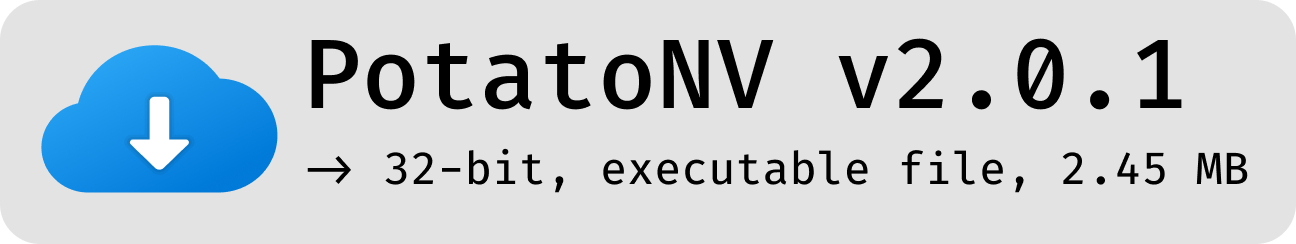
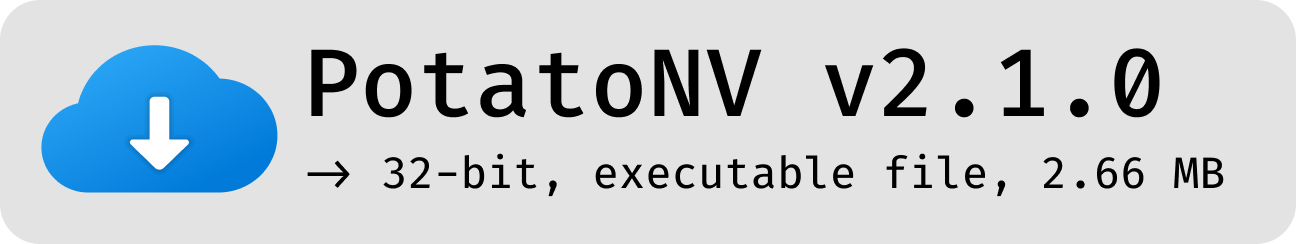
Update README

Changed region(s): [[0.216, 0.1434, 0.9259, 0.4877], [0.216, 0.6025, 0.9877, 0.8033], [0.216, 0.4303, 0.2469, 0.4877]]

diff --git a/PotatoNV-next/Core.cs b/PotatoNV-next/Core.cs
@@ -91,8 +91,7 @@ namespace PotatoNV_next
 
             if (!state)
             {
-                Log.Error("FBLOCK is locked!");
-                // throw new Exception("FBLOCK is locked!");
+                Log.Error("*** FBLOCK is locked! ***");
             }
         }
 
@@ -136,6 +135,7 @@ namespace PotatoNV_next
                     return;
                 }
             }
+
             Log.Error("Failed to set FBLOCK state!");
         }
 

diff --git a/README.md b/README.md
@@ -16,8 +16,8 @@ Unlock bootloader of Huawei devices on Kirin SoC.
 
 Click below to download the latest version:
 
-<a href="https://github.com/mashed-potatoes/PotatoNV/releases/download/v2.0.1-2/PotatoNV-next-v2.0.1-2-x86.exe">
-  <img src="https://raw.githubusercontent.com/mashed-potatoes/PotatoNV/master/assets/cool-button.png" width="520" height="auto">
+<a href="https://github.com/mashed-potatoes/PotatoNV/releases/download/v2.1.0/PotatoNV-next-v2.1.0-x86.exe">
+  <img src="https://raw.githubusercontent.com/mashed-potatoes/PotatoNV/master/assets/cool-button.png?r=2100" width="520" height="auto">
 </a>
 
 ## Tested devices
@@ -39,8 +39,9 @@ Huawei Nova 2 | `PIC` | Kirin 65x (A)
 Huawei Nova 2i / Mate 10 Lite | `RNE` | Kirin 65x (B)
 Huawei Nova 2s | `HWI` | Kirin 960
 Huawei P Smart 2018 | `FIG` | Kirin 65x (B)
+Huawei P8 Lite **(!)** | `ALE` | Kirin 620
 Huawei P10 | `VTR` | Kirin 960
-Huawei P20 Lite / Nova 3e | `ANE` | Kirin 65x (A)
+Huawei P20 Lite / Nova 3e **(!)** | `ANE` | Kirin 65x (A)
 Huawei P8 Lite (2017) | `PRA` | Kirin 65x (A)
 Huawei P9 Lite | `VNS` | Kirin 65x (A)
 Huawei Y9 (2018) | `FLA` | Kirin 65x (A)
